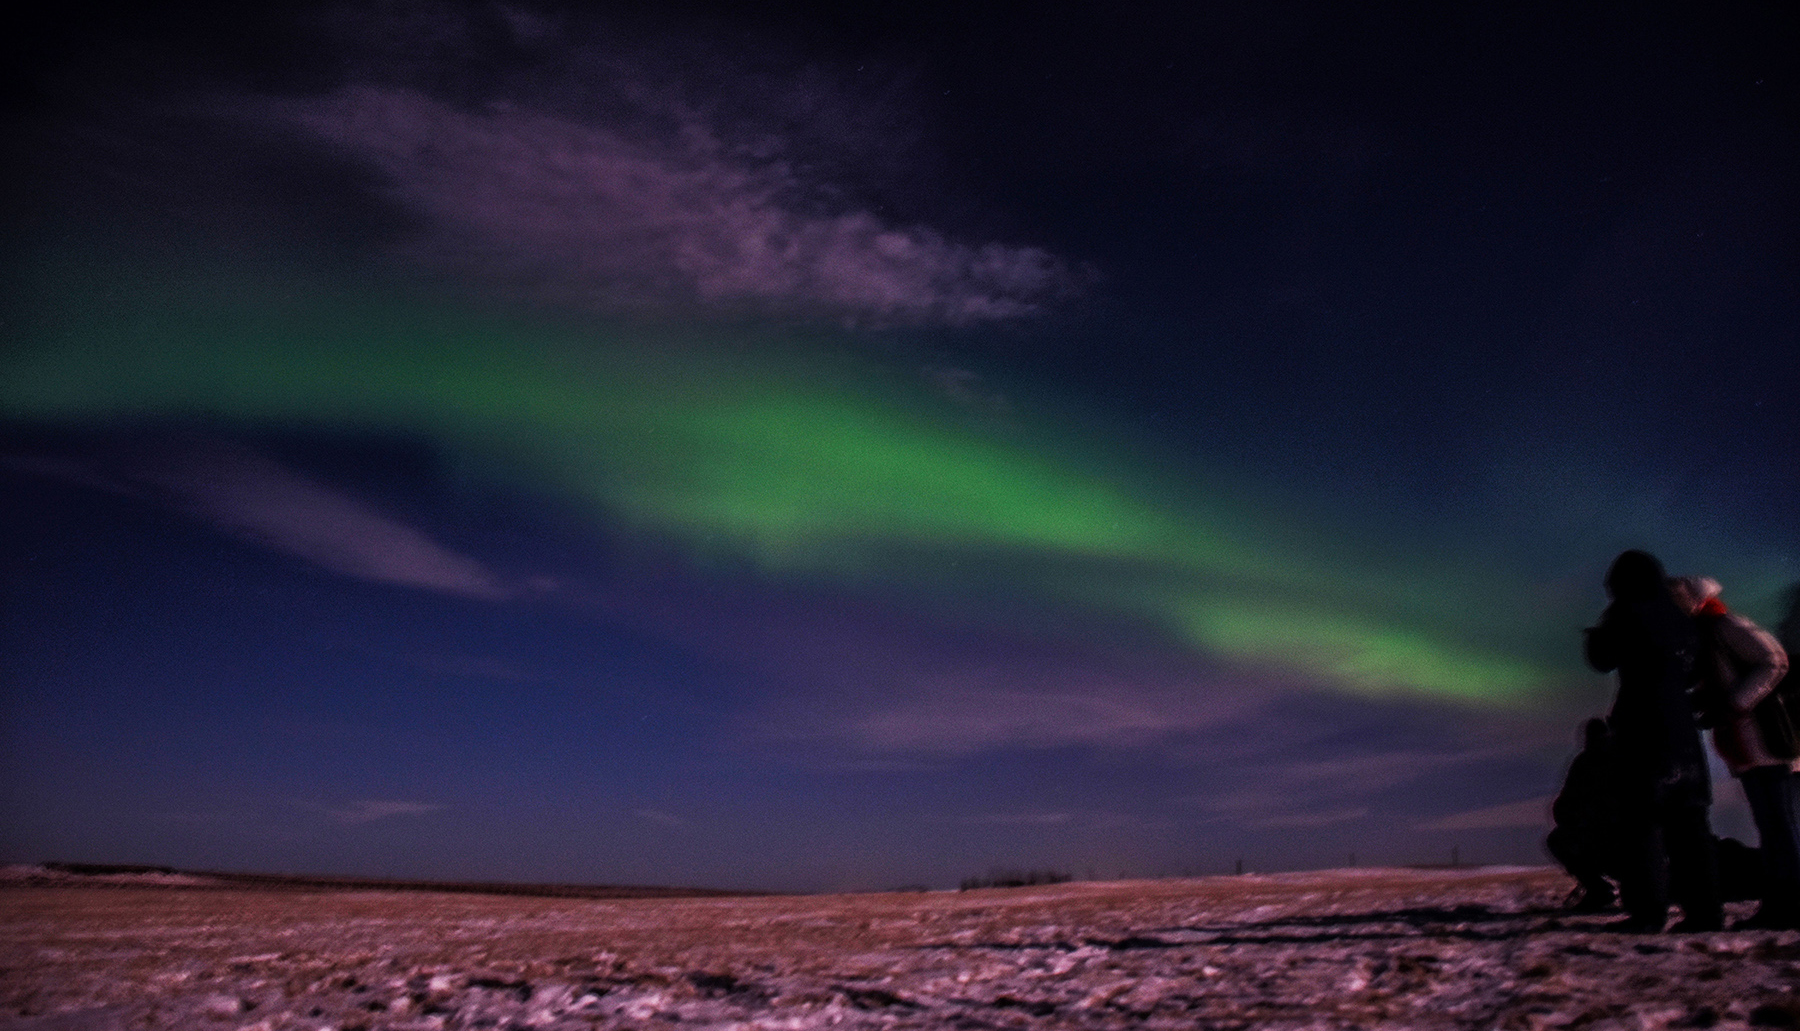
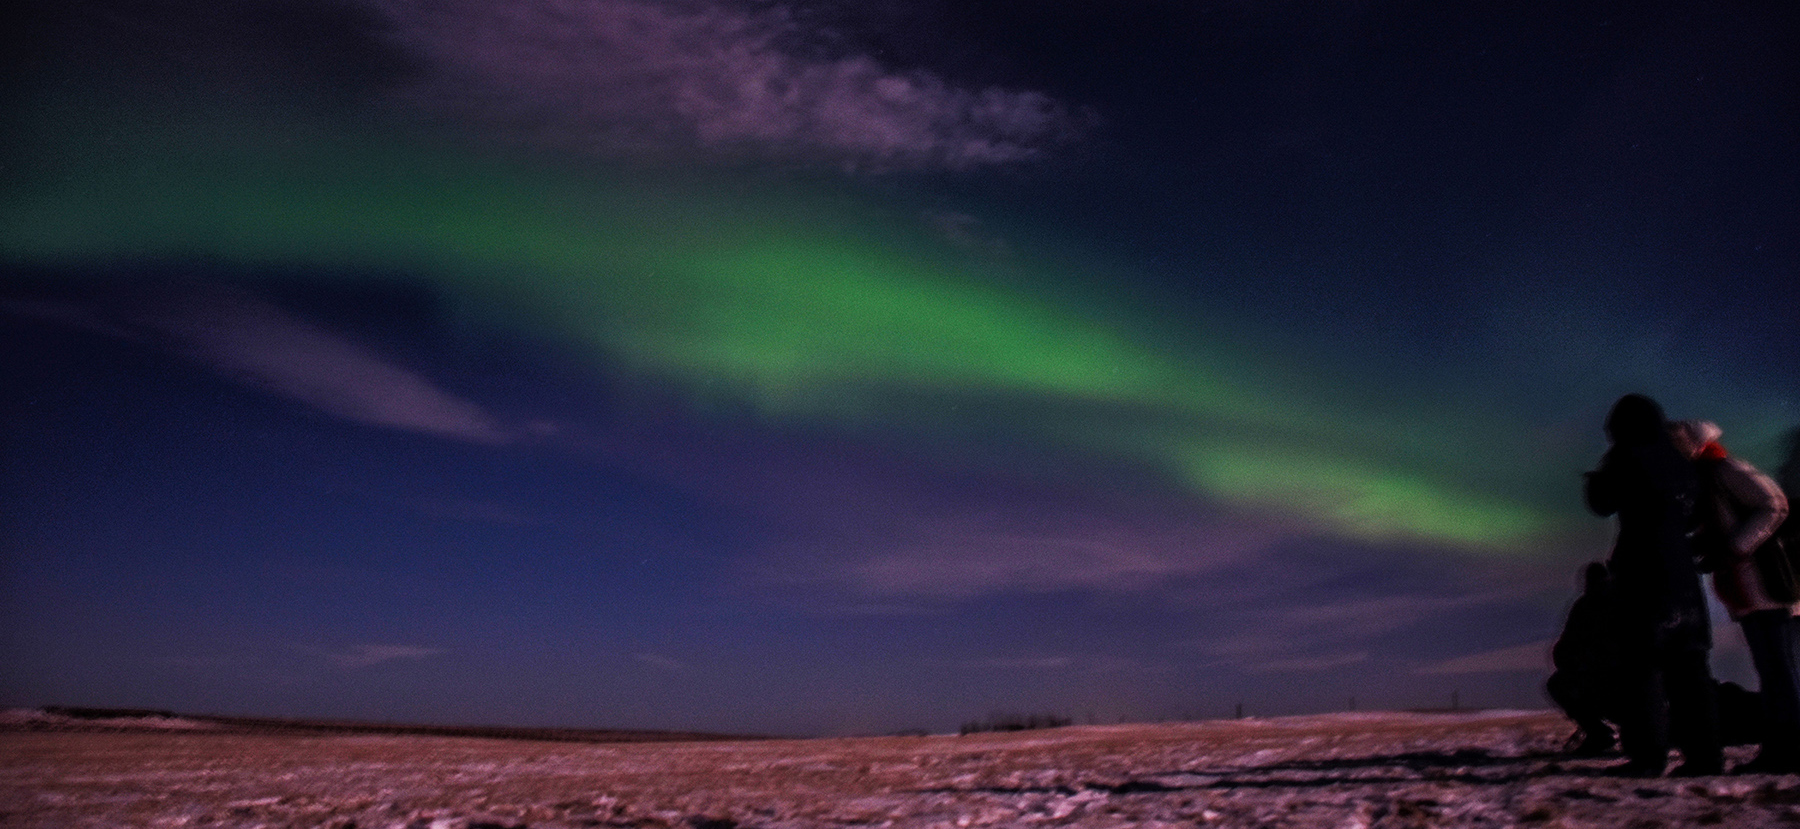
Image update.

diff --git a/resources/css/style.css b/resources/css/style.css
@@ -120,10 +120,10 @@ a:hover {
 .jumbotron {
   background-color: #ffffff;
   margin: 0rem;
-  padding: 0rem, 1rem;
+  padding: 0rem, 2rem;
   height: auto;
   background-image: url("../images/northern_lights_jumbotron.jpg");
-  background-size: cover;
+  background-size: auto, 100%;
   background-repeat: no-repeat;
   display: flex;
   justify-content: center;
@@ -131,7 +131,7 @@ a:hover {
 }
 
 /* about */
-.about h3 {
+.about-container {
   padding-top: 0rem;
 }
 
